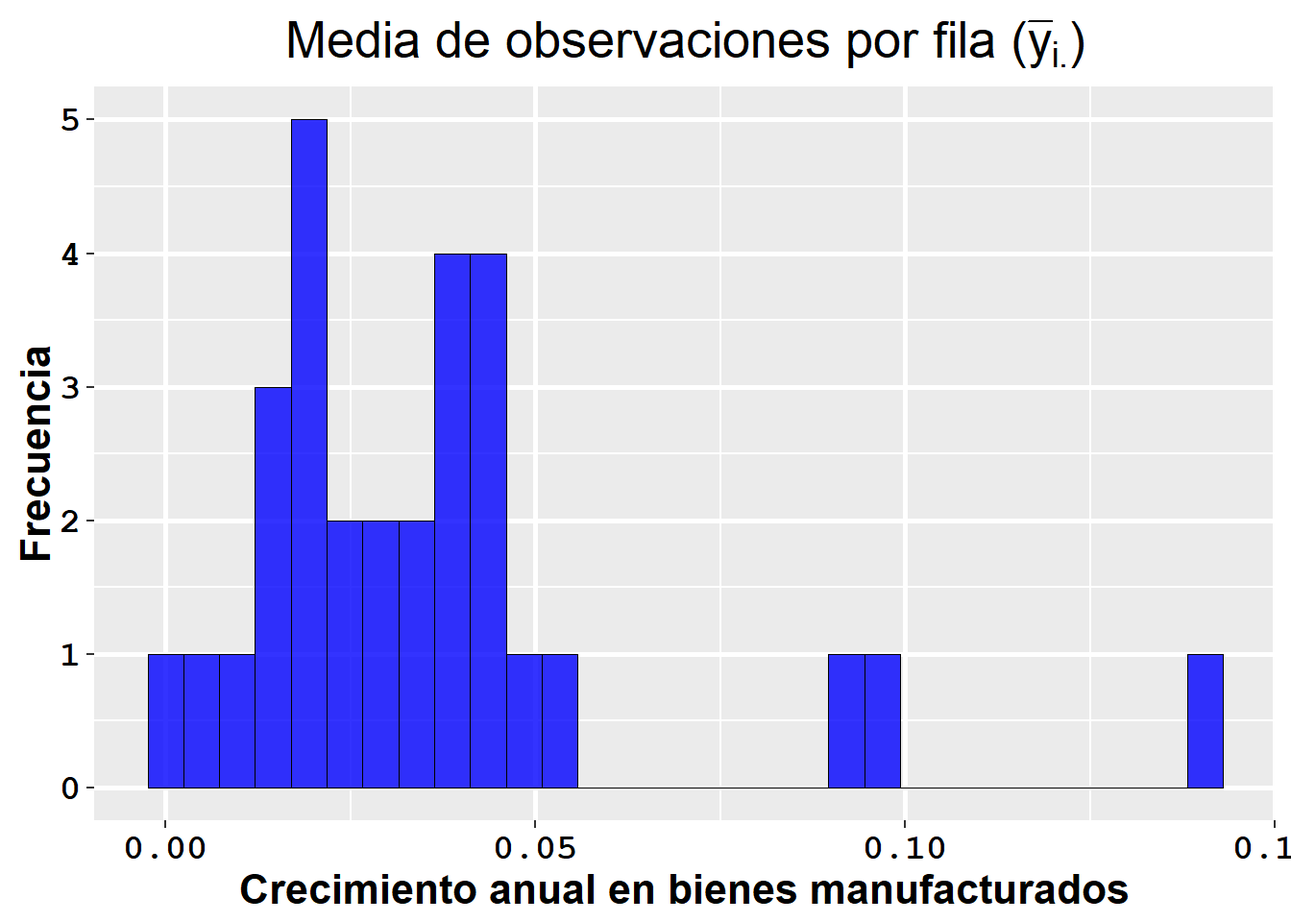
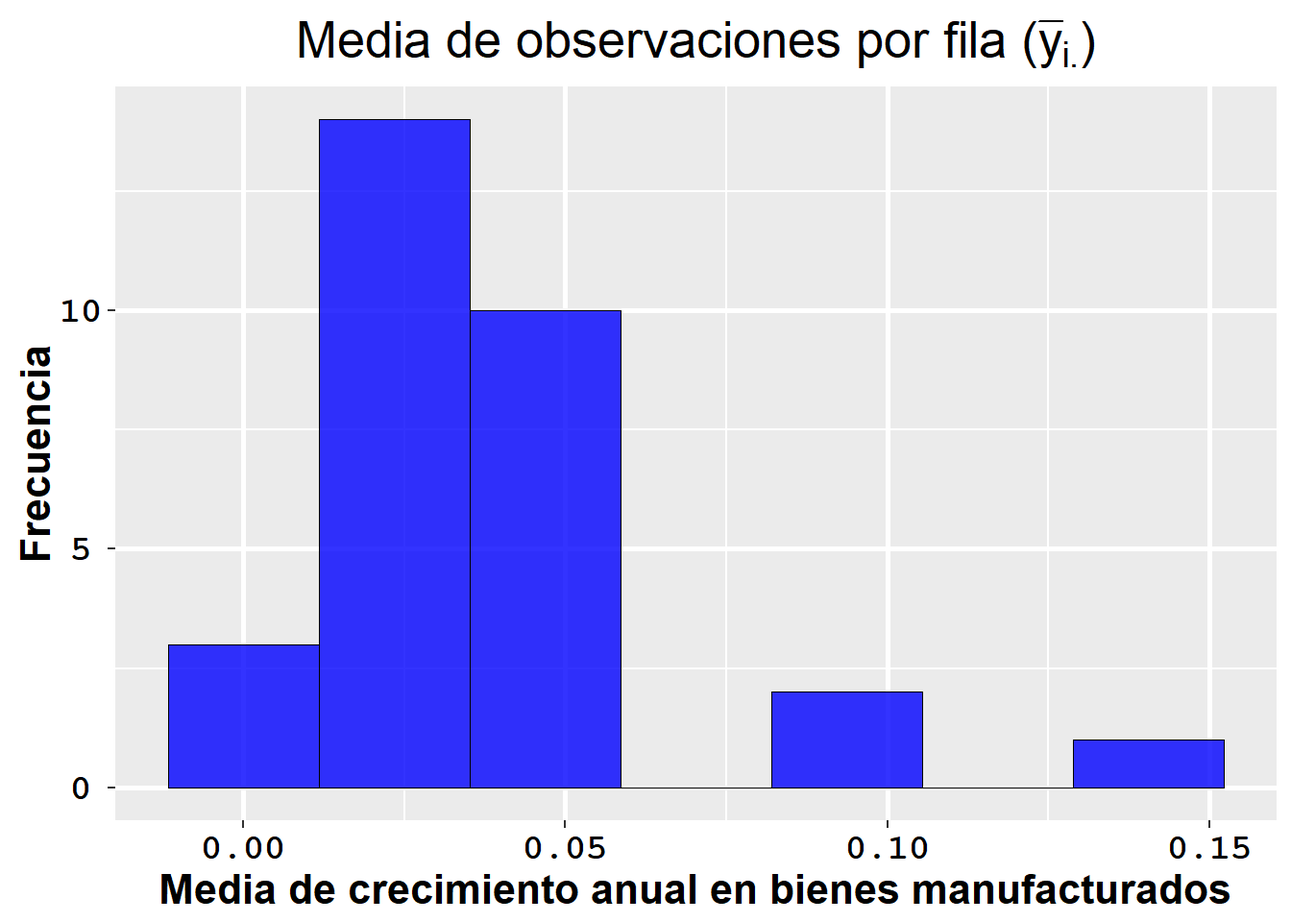
Punto 2

diff --git a/docs/Taller2.html b/docs/Taller2.html
@@ -249,29 +249,6 @@ window.Quarto = {
 </header>
 
 
-<div class="cell">
-<div class="cell-output cell-output-stderr">
-<pre><code>
-Adjuntando el paquete: 'igraph'</code></pre>
-</div>
-<div class="cell-output cell-output-stderr">
-<pre><code>The following objects are masked from 'package:stats':
-
-    decompose, spectrum</code></pre>
-</div>
-<div class="cell-output cell-output-stderr">
-<pre><code>The following object is masked from 'package:base':
-
-    union</code></pre>
-</div>
-<div class="cell-output cell-output-stderr">
-<pre><code>here() starts at C:/Users/Lenovo/Documents/UNAL/Materias/RedesSociales/Redes Sociales 2024-2</code></pre>
-</div>
-<div class="cell-output cell-output-stderr">
-<pre><code>Warning: The `size` argument of `element_line()` is deprecated as of ggplot2 3.4.0.
-ℹ Please use the `linewidth` argument instead.</code></pre>
-</div>
-</div>
 <section id="punto-1" class="level2">
 <h2 class="anchored" data-anchor-id="punto-1">Punto 1</h2>
 <p>El grado de un nodo en una red tanto dirigida como no dirigida se puede calcular fácilmente a partir de la matriz de adyacencia <span class="math inline">\(\mathbf{Y}=[y_{i,j}]\)</span>. El <em>out-degree</em> <span class="math inline">\(d_i^{\text{out}}\)</span> y el <em>in-degree</em> <span class="math inline">\(d_i^{\text{in}}\)</span> del nodo <span class="math inline">\(i\)</span> se pueden calcular respectivamente como: <span class="math display">\[
@@ -306,8 +283,8 @@ d_i^{\text{in}} = \sum_{j:j\neq i} y_{j,i}
 <h2 class="anchored" data-anchor-id="punto-5">Punto 5</h2>
 <p>Considere el conjunto de datos dado en <code>comtrade.RData</code> (este archivo contiene una arreglo de cuatro dimensiones denominado <code>comtrade</code>), asociado con el crecimiento anual del comercio (diferencia en dólares en escala logarítmica respecto al año 2000). Este conjunto de datos involucra 30 países, 10 años desde 1996 hasta 2005, y 6 clases de productos diferentes, como se muestra a continuación:</p>
 <div class="cell">
-<div class="sourceCode cell-code" id="cb6"><pre class="sourceCode r code-with-copy"><code class="sourceCode r"><span id="cb6-1"><a href="#cb6-1" aria-hidden="true" tabindex="-1"></a><span class="fu">load</span>(<span class="st">"comtrade.RData"</span>)</span>
-<span id="cb6-2"><a href="#cb6-2" aria-hidden="true" tabindex="-1"></a><span class="fu">dimnames</span>(comtrade)[<span class="fu">c</span>(<span class="dv">1</span>,<span class="dv">3</span>,<span class="dv">4</span>)]</span></code><button title="Copy to Clipboard" class="code-copy-button"><i class="bi"></i></button></pre></div>
+<div class="sourceCode cell-code" id="cb1"><pre class="sourceCode r code-with-copy"><code class="sourceCode r"><span id="cb1-1"><a href="#cb1-1" aria-hidden="true" tabindex="-1"></a><span class="fu">load</span>(<span class="st">"comtrade.RData"</span>)</span>
+<span id="cb1-2"><a href="#cb1-2" aria-hidden="true" tabindex="-1"></a><span class="fu">dimnames</span>(comtrade)[<span class="fu">c</span>(<span class="dv">1</span>,<span class="dv">3</span>,<span class="dv">4</span>)]</span></code><button title="Copy to Clipboard" class="code-copy-button"><i class="bi"></i></button></pre></div>
 <div class="cell-output cell-output-stdout">
 <pre><code>[[1]]
  [1] "Australia"            "Austria"              "Brazil"              
@@ -332,39 +309,39 @@ d_i^{\text{in}} = \sum_{j:j\neq i} y_{j,i}
 [[3]]
  [1] "1996" "1997" "1998" "1999" "2000" "2001" "2002" "2003" "2004" "2005"</code></pre>
 </div>
-<div class="sourceCode cell-code" id="cb8"><pre class="sourceCode r code-with-copy"><code class="sourceCode r"><span id="cb8-1"><a href="#cb8-1" aria-hidden="true" tabindex="-1"></a><span class="fu">View</span>(comtrade[<span class="dv">1</span>,<span class="dv">2</span>,,]) <span class="co"># Paises, paises, productos y año</span></span></code><button title="Copy to Clipboard" class="code-copy-button"><i class="bi"></i></button></pre></div>
+<div class="sourceCode cell-code" id="cb3"><pre class="sourceCode r code-with-copy"><code class="sourceCode r"><span id="cb3-1"><a href="#cb3-1" aria-hidden="true" tabindex="-1"></a><span class="fu">View</span>(comtrade[<span class="dv">1</span>,<span class="dv">2</span>,,]) <span class="co"># Paises, paises, productos y año</span></span></code><button title="Copy to Clipboard" class="code-copy-button"><i class="bi"></i></button></pre></div>
 </div>
 <p><strong>a. Calcule el aumento medio global</strong> <span class="math inline">\(\bar{y}\)</span> a lo largo de los 10 años en bienes manufacturados. Para ello considere la matriz de adyacencia <code>Y</code> dada por:</p>
 <div class="cell">
-<div class="sourceCode cell-code" id="cb9"><pre class="sourceCode r code-with-copy"><code class="sourceCode r"><span id="cb9-1"><a href="#cb9-1" aria-hidden="true" tabindex="-1"></a>Y <span class="ot">&lt;-</span> <span class="fu">apply</span>(<span class="at">X =</span> comtrade[,,<span class="fu">c</span>(<span class="dv">5</span>,<span class="dv">6</span>),], <span class="at">MARGIN =</span> <span class="fu">c</span>(<span class="dv">1</span>,<span class="dv">2</span>), <span class="at">FUN =</span> mean) <span class="co">#Media de años y bienes manufacturados</span></span>
-<span id="cb9-2"><a href="#cb9-2" aria-hidden="true" tabindex="-1"></a>n <span class="ot">&lt;-</span> <span class="fu">dim</span>(Y)[<span class="dv">1</span>]</span>
-<span id="cb9-3"><a href="#cb9-3" aria-hidden="true" tabindex="-1"></a>Y[<span class="fu">which</span>(<span class="fu">is.na</span>(Y))] <span class="ot">&lt;-</span> <span class="dv">0</span> </span>
-<span id="cb9-4"><a href="#cb9-4" aria-hidden="true" tabindex="-1"></a></span>
-<span id="cb9-5"><a href="#cb9-5" aria-hidden="true" tabindex="-1"></a><span class="co">#** mean(y) **#</span></span>
-<span id="cb9-6"><a href="#cb9-6" aria-hidden="true" tabindex="-1"></a><span class="fu">sum</span>(Y)<span class="sc">/</span>(n<span class="sc">*</span>(n<span class="dv">-1</span>))</span></code><button title="Copy to Clipboard" class="code-copy-button"><i class="bi"></i></button></pre></div>
+<div class="sourceCode cell-code" id="cb4"><pre class="sourceCode r code-with-copy"><code class="sourceCode r"><span id="cb4-1"><a href="#cb4-1" aria-hidden="true" tabindex="-1"></a>Y <span class="ot">&lt;-</span> <span class="fu">apply</span>(<span class="at">X =</span> comtrade[,,<span class="fu">c</span>(<span class="dv">5</span>,<span class="dv">6</span>),], <span class="at">MARGIN =</span> <span class="fu">c</span>(<span class="dv">1</span>,<span class="dv">2</span>), <span class="at">FUN =</span> mean) <span class="co">#Media de años y bienes manufacturados</span></span>
+<span id="cb4-2"><a href="#cb4-2" aria-hidden="true" tabindex="-1"></a>n <span class="ot">&lt;-</span> <span class="fu">dim</span>(Y)[<span class="dv">1</span>]</span>
+<span id="cb4-3"><a href="#cb4-3" aria-hidden="true" tabindex="-1"></a>Y[<span class="fu">which</span>(<span class="fu">is.na</span>(Y))] <span class="ot">&lt;-</span> <span class="dv">0</span> </span>
+<span id="cb4-4"><a href="#cb4-4" aria-hidden="true" tabindex="-1"></a></span>
+<span id="cb4-5"><a href="#cb4-5" aria-hidden="true" tabindex="-1"></a><span class="co">#** mean(y) **#</span></span>
+<span id="cb4-6"><a href="#cb4-6" aria-hidden="true" tabindex="-1"></a><span class="fu">sum</span>(Y)<span class="sc">/</span>(n<span class="sc">*</span>(n<span class="dv">-1</span>))</span></code><button title="Copy to Clipboard" class="code-copy-button"><i class="bi"></i></button></pre></div>
 <div class="cell-output cell-output-stdout">
 <pre><code>[1] 0.03778362</code></pre>
 </div>
-<div class="sourceCode cell-code" id="cb11"><pre class="sourceCode r code-with-copy"><code class="sourceCode r"><span id="cb11-1"><a href="#cb11-1" aria-hidden="true" tabindex="-1"></a><span class="co"># No es quivalente a densidad porque es ponderada (?)</span></span>
-<span id="cb11-2"><a href="#cb11-2" aria-hidden="true" tabindex="-1"></a>g5a <span class="ot">&lt;-</span> <span class="fu">graph_from_adjacency_matrix</span>(Y, <span class="at">weighted =</span> T)</span>
-<span id="cb11-3"><a href="#cb11-3" aria-hidden="true" tabindex="-1"></a><span class="fu">ecount</span>(g5a)<span class="sc">/</span>(<span class="fu">vcount</span>(g5a)<span class="sc">*</span>(<span class="fu">vcount</span>(g5a)<span class="sc">-</span><span class="dv">1</span>))</span></code><button title="Copy to Clipboard" class="code-copy-button"><i class="bi"></i></button></pre></div>
+<div class="sourceCode cell-code" id="cb6"><pre class="sourceCode r code-with-copy"><code class="sourceCode r"><span id="cb6-1"><a href="#cb6-1" aria-hidden="true" tabindex="-1"></a><span class="co"># No es quivalente a densidad porque es ponderada (?)</span></span>
+<span id="cb6-2"><a href="#cb6-2" aria-hidden="true" tabindex="-1"></a>g5a <span class="ot">&lt;-</span> <span class="fu">graph_from_adjacency_matrix</span>(Y, <span class="at">weighted =</span> T)</span>
+<span id="cb6-3"><a href="#cb6-3" aria-hidden="true" tabindex="-1"></a><span class="fu">ecount</span>(g5a)<span class="sc">/</span>(<span class="fu">vcount</span>(g5a)<span class="sc">*</span>(<span class="fu">vcount</span>(g5a)<span class="sc">-</span><span class="dv">1</span>))</span></code><button title="Copy to Clipboard" class="code-copy-button"><i class="bi"></i></button></pre></div>
 <div class="cell-output cell-output-stdout">
 <pre><code>[1] 1</code></pre>
 </div>
-<div class="sourceCode cell-code" id="cb13"><pre class="sourceCode r code-with-copy"><code class="sourceCode r"><span id="cb13-1"><a href="#cb13-1" aria-hidden="true" tabindex="-1"></a><span class="fu">edge_density</span>(<span class="at">graph =</span> g5a)</span></code><button title="Copy to Clipboard" class="code-copy-button"><i class="bi"></i></button></pre></div>
+<div class="sourceCode cell-code" id="cb8"><pre class="sourceCode r code-with-copy"><code class="sourceCode r"><span id="cb8-1"><a href="#cb8-1" aria-hidden="true" tabindex="-1"></a><span class="fu">edge_density</span>(<span class="at">graph =</span> g5a)</span></code><button title="Copy to Clipboard" class="code-copy-button"><i class="bi"></i></button></pre></div>
 <div class="cell-output cell-output-stdout">
 <pre><code>[1] 1</code></pre>
 </div>
 </div>
 <p><strong>b. Calcule la media de todas las observaciones de cada fila de <code>Y</code>, es decir, calcule la media fila</strong> <span class="math inline">\(\bar{y}_{i\bullet}=\frac{1}{n-1}\sum_{j:j\neq i} y_{i,j}\)</span> para cada país. Realice una histograma de los promedios fila <span class="math inline">\(\bar{y}_{i\bullet}\)</span>. Los promedios fila caracterizan diferentes niveles de actividad de los nodos en términos de la sociabilidad. ¿Cómo se pueden interpretar los promedios fila <span class="math inline">\(\bar{y}_{i\bullet}\)</span>?</p>
 <div class="cell">
-<div class="sourceCode cell-code" id="cb15"><pre class="sourceCode r code-with-copy"><code class="sourceCode r"><span id="cb15-1"><a href="#cb15-1" aria-hidden="true" tabindex="-1"></a>mfila <span class="ot">&lt;-</span> <span class="fu">apply</span>(Y, <span class="at">MARGIN =</span> <span class="dv">1</span>, <span class="at">FUN =</span> mean)</span>
-<span id="cb15-2"><a href="#cb15-2" aria-hidden="true" tabindex="-1"></a>mfila <span class="ot">&lt;-</span> <span class="fu">data.frame</span>(<span class="at">Pais =</span> mfila)</span>
-<span id="cb15-3"><a href="#cb15-3" aria-hidden="true" tabindex="-1"></a></span>
-<span id="cb15-4"><a href="#cb15-4" aria-hidden="true" tabindex="-1"></a><span class="fu">ggplot</span>(mfila, <span class="fu">aes</span>(<span class="at">x =</span> Pais)) <span class="sc">+</span> </span>
-<span id="cb15-5"><a href="#cb15-5" aria-hidden="true" tabindex="-1"></a>  <span class="fu">geom_histogram</span>(<span class="at">alpha =</span> <span class="fl">0.8</span>, <span class="at">position =</span> <span class="st">"identity"</span>, <span class="at">fill=</span><span class="st">"blue"</span>, <span class="at">colour =</span> <span class="st">"black"</span>,<span class="at">lwd =</span> <span class="fl">0.1</span>,<span class="at">linetype =</span> <span class="dv">1</span>) <span class="sc">+</span></span>
-<span id="cb15-6"><a href="#cb15-6" aria-hidden="true" tabindex="-1"></a><span class="fu">labs</span>(<span class="at">title=</span><span class="fu">expression</span>(<span class="fu">paste</span>(<span class="st">"Media de observaciones por fila ("</span>, <span class="fu">bar</span>(y)[i.], <span class="st">")"</span>)), <span class="at">x=</span><span class="st">"Crecimiento anual en bienes manufacturados"</span>, <span class="at">y=</span><span class="st">"Frecuencia"</span>) <span class="sc">+</span> mitema <span class="sc">+</span> </span>
-<span id="cb15-7"><a href="#cb15-7" aria-hidden="true" tabindex="-1"></a>  <span class="fu">theme</span>(<span class="at">strip.background=</span><span class="fu">element_rect</span>(<span class="at">color=</span><span class="st">"black"</span>,<span class="at">fill=</span><span class="st">"gray80"</span>,<span class="at">size=</span><span class="dv">1</span>), <span class="at">strip.text=</span><span class="fu">element_text</span>(<span class="at">face=</span><span class="st">"bold"</span>,<span class="at">size=</span><span class="dv">15</span>,<span class="at">vjust=</span><span class="fl">0.5</span>,<span class="at">hjust=</span><span class="fl">0.5</span>,<span class="at">color=</span><span class="st">"black"</span>,<span class="at">angle=</span><span class="dv">0</span>))</span></code><button title="Copy to Clipboard" class="code-copy-button"><i class="bi"></i></button></pre></div>
+<div class="sourceCode cell-code" id="cb10"><pre class="sourceCode r code-with-copy"><code class="sourceCode r"><span id="cb10-1"><a href="#cb10-1" aria-hidden="true" tabindex="-1"></a>mfila <span class="ot">&lt;-</span> <span class="fu">apply</span>(Y, <span class="at">MARGIN =</span> <span class="dv">1</span>, <span class="at">FUN =</span> mean)</span>
+<span id="cb10-2"><a href="#cb10-2" aria-hidden="true" tabindex="-1"></a>mfila <span class="ot">&lt;-</span> <span class="fu">data.frame</span>(<span class="at">Pais =</span> mfila, <span class="at">row.names =</span> <span class="cn">NULL</span>)</span>
+<span id="cb10-3"><a href="#cb10-3" aria-hidden="true" tabindex="-1"></a><span class="co">#hist(apply(Y, MARGIN = 1, FUN = mean))</span></span>
+<span id="cb10-4"><a href="#cb10-4" aria-hidden="true" tabindex="-1"></a><span class="fu">ggplot</span>(mfila, <span class="fu">aes</span>(<span class="at">x =</span> Pais)) <span class="sc">+</span> </span>
+<span id="cb10-5"><a href="#cb10-5" aria-hidden="true" tabindex="-1"></a>  <span class="fu">geom_histogram</span>(<span class="at">alpha =</span> <span class="fl">0.8</span>, <span class="at">bins =</span> <span class="dv">7</span>, <span class="at">position =</span> <span class="st">"identity"</span>, <span class="at">fill=</span><span class="st">"blue"</span>, <span class="at">colour =</span> <span class="st">"black"</span>,<span class="at">lwd =</span> <span class="fl">0.1</span>,<span class="at">linetype =</span> <span class="dv">1</span>) <span class="sc">+</span></span>
+<span id="cb10-6"><a href="#cb10-6" aria-hidden="true" tabindex="-1"></a><span class="fu">labs</span>(<span class="at">title=</span><span class="fu">expression</span>(<span class="fu">paste</span>(<span class="st">"Media de observaciones por fila ("</span>, <span class="fu">bar</span>(y)[i.], <span class="st">")"</span>)), <span class="at">x=</span><span class="st">"Media de crecimiento anual en bienes manufacturados"</span>, <span class="at">y=</span><span class="st">"Frecuencia"</span>) <span class="sc">+</span> mitema <span class="sc">+</span> </span>
+<span id="cb10-7"><a href="#cb10-7" aria-hidden="true" tabindex="-1"></a>  <span class="fu">theme</span>(<span class="at">strip.background=</span><span class="fu">element_rect</span>(<span class="at">color=</span><span class="st">"black"</span>,<span class="at">fill=</span><span class="st">"gray80"</span>,<span class="at">size=</span><span class="dv">1</span>), <span class="at">strip.text=</span><span class="fu">element_text</span>(<span class="at">face=</span><span class="st">"bold"</span>,<span class="at">size=</span><span class="dv">15</span>,<span class="at">vjust=</span><span class="fl">0.5</span>,<span class="at">hjust=</span><span class="fl">0.5</span>,<span class="at">color=</span><span class="st">"black"</span>,<span class="at">angle=</span><span class="dv">0</span>))</span></code><button title="Copy to Clipboard" class="code-copy-button"><i class="bi"></i></button></pre></div>
 <div class="cell-output-display">
 <div>
 <figure class="figure">
@@ -373,8 +350,46 @@ d_i^{\text{in}} = \sum_{j:j\neq i} y_{j,i}
 </div>
 </div>
 </div>
+<p>Interpretar:</p>
 <p><strong>c.&nbsp;Calcule la media de todas las observaciones de cada columna de <code>Y</code>, es decir, calcule la media columna</strong> <span class="math inline">\(\bar{y}_{\bullet j}=\frac{1}{n-1}\sum_{i:i\neq j} y_{i,j}\)</span> para cada país. Realice una histograma de los promedios columna <span class="math inline">\(\bar{y}_{\bullet j}\)</span>. Los promedios columna caracterizan diferentes niveles de actividad de los nodos en términos de la popularidad. ¿Cómo se pueden interpretar los promedio columna <span class="math inline">\(\bar{y}_{\bullet j}\)</span>?</p>
+<div class="cell">
+<div class="sourceCode cell-code" id="cb11"><pre class="sourceCode r code-with-copy"><code class="sourceCode r"><span id="cb11-1"><a href="#cb11-1" aria-hidden="true" tabindex="-1"></a>mcol <span class="ot">&lt;-</span> <span class="fu">apply</span>(Y, <span class="at">MARGIN =</span> <span class="dv">2</span>, <span class="at">FUN =</span> mean)</span>
+<span id="cb11-2"><a href="#cb11-2" aria-hidden="true" tabindex="-1"></a>mcol <span class="ot">&lt;-</span> <span class="fu">data.frame</span>(<span class="at">Pais =</span> mcol, <span class="at">row.names =</span> <span class="cn">NULL</span>)</span>
+<span id="cb11-3"><a href="#cb11-3" aria-hidden="true" tabindex="-1"></a><span class="co">#hist(apply(Y, MARGIN = 2, FUN = mean))</span></span>
+<span id="cb11-4"><a href="#cb11-4" aria-hidden="true" tabindex="-1"></a><span class="fu">ggplot</span>(mcol, <span class="fu">aes</span>(<span class="at">x =</span> Pais)) <span class="sc">+</span> </span>
+<span id="cb11-5"><a href="#cb11-5" aria-hidden="true" tabindex="-1"></a>  <span class="fu">geom_histogram</span>(<span class="at">alpha =</span> <span class="fl">0.8</span>, <span class="at">position =</span> <span class="st">"identity"</span>, <span class="at">bins =</span> <span class="dv">7</span>, <span class="at">fill=</span><span class="st">"blue"</span>, <span class="at">colour =</span> <span class="st">"black"</span>,<span class="at">lwd =</span> <span class="fl">0.1</span>,<span class="at">linetype =</span> <span class="dv">1</span>) <span class="sc">+</span></span>
+<span id="cb11-6"><a href="#cb11-6" aria-hidden="true" tabindex="-1"></a><span class="fu">labs</span>(<span class="at">title=</span><span class="fu">expression</span>(<span class="fu">paste</span>(<span class="st">"Media de observaciones por columna ("</span>, <span class="fu">bar</span>(y)[.j], <span class="st">")"</span>)), <span class="at">x=</span><span class="st">"Media de crecimiento anual en bienes manufacturados"</span>, <span class="at">y=</span><span class="st">"Frecuencia"</span>) <span class="sc">+</span> mitema <span class="sc">+</span> </span>
+<span id="cb11-7"><a href="#cb11-7" aria-hidden="true" tabindex="-1"></a>  <span class="fu">theme</span>(<span class="at">strip.background=</span><span class="fu">element_rect</span>(<span class="at">color=</span><span class="st">"black"</span>,<span class="at">fill=</span><span class="st">"gray80"</span>,<span class="at">size=</span><span class="dv">1</span>), <span class="at">strip.text=</span><span class="fu">element_text</span>(<span class="at">face=</span><span class="st">"bold"</span>,<span class="at">size=</span><span class="dv">15</span>,<span class="at">vjust=</span><span class="fl">0.5</span>,<span class="at">hjust=</span><span class="fl">0.5</span>,<span class="at">color=</span><span class="st">"black"</span>,<span class="at">angle=</span><span class="dv">0</span>))</span></code><button title="Copy to Clipboard" class="code-copy-button"><i class="bi"></i></button></pre></div>
+<div class="cell-output-display">
+<div>
+<figure class="figure">
+<p><img src="Taller2_files/figure-html/unnamed-chunk-7-1.png" class="img-fluid figure-img" width="672"></p>
+</figure>
+</div>
+</div>
+</div>
 <p><strong>d.&nbsp;Calcule tanto la media de los promedios fila</strong> <span class="math inline">\(\bar{y}_{i\bullet}\)</span> como la media de los promedios columna <span class="math inline">\(\bar{y}_{\bullet j}\)</span>.</p>
+<div class="cell">
+<div class="sourceCode cell-code" id="cb12"><pre class="sourceCode r code-with-copy"><code class="sourceCode r"><span id="cb12-1"><a href="#cb12-1" aria-hidden="true" tabindex="-1"></a><span class="fu">kable</span>(<span class="fu">mean</span>(mfila[,<span class="dv">1</span>]))</span></code><button title="Copy to Clipboard" class="code-copy-button"><i class="bi"></i></button></pre></div>
+<div class="cell-output-display">
+<table class="caption-top table table-sm table-striped small">
+<thead>
+<tr class="header">
+<th style="text-align: right;">x</th>
+</tr>
+</thead>
+<tbody>
+<tr class="odd">
+<td style="text-align: right;">0.0365242</td>
+</tr>
+</tbody>
+</table>
+</div>
+<div class="sourceCode cell-code" id="cb13"><pre class="sourceCode r code-with-copy"><code class="sourceCode r"><span id="cb13-1"><a href="#cb13-1" aria-hidden="true" tabindex="-1"></a><span class="fu">mean</span>(mcol[,<span class="dv">1</span>])</span></code><button title="Copy to Clipboard" class="code-copy-button"><i class="bi"></i></button></pre></div>
+<div class="cell-output cell-output-stdout">
+<pre><code>[1] 0.03652417</code></pre>
+</div>
+</div>
 <p><strong>e. Calcule tanto la DE de los promedios fila</strong> <span class="math inline">\(\bar{y}_{i\bullet}\)</span> como la DE de los promedios columna <span class="math inline">\(\bar{y}_{\bullet j}\)</span>. ¿Qué se puede concluir acerca de la heterogeneidad local en este caso?</p>
 <p><strong>f.&nbsp;Calcule el coeficiente de correlación entre los promedios fila</strong> <span class="math inline">\(\bar{y}_{i\bullet}\)</span> y los promedios columna <span class="math inline">\(\bar{y}_{\bullet j}\)</span>. Realice un dispersograma de los promedios columna <span class="math inline">\(\bar{y}_{\bullet j}\)</span> (eje <span class="math inline">\(y\)</span>) frente a los promedios fila <span class="math inline">\(\bar{y}_{i\bullet}\)</span> (eje <span class="math inline">\(x\)</span>), junto con la recta <span class="math inline">\(y=x\)</span> como punto de referencia. ¿Qué se puede concluir?</p>
 </section>
@@ -395,13 +410,13 @@ d_i^{\text{in}} = \sum_{j:j\neq i} y_{j,i}
 <h2 class="anchored" data-anchor-id="punto-8">Punto 8</h2>
 <p>Considere los datos relacionales acerca de los conflictos internacionales del archivo <code>conflict.RData</code> despúes de simetrizarla débilmente y remover los nodos aislados:</p>
 <div class="cell">
-<div class="sourceCode cell-code" id="cb16"><pre class="sourceCode r code-with-copy"><code class="sourceCode r"><span id="cb16-1"><a href="#cb16-1" aria-hidden="true" tabindex="-1"></a><span class="co"># datos</span></span>
-<span id="cb16-2"><a href="#cb16-2" aria-hidden="true" tabindex="-1"></a><span class="co"># load("conflict.RData")</span></span>
-<span id="cb16-3"><a href="#cb16-3" aria-hidden="true" tabindex="-1"></a><span class="co"># Y &lt;- dat$Y</span></span>
-<span id="cb16-4"><a href="#cb16-4" aria-hidden="true" tabindex="-1"></a><span class="co"># # remover nodos aislados</span></span>
-<span id="cb16-5"><a href="#cb16-5" aria-hidden="true" tabindex="-1"></a><span class="co"># Y &lt;- 1*( Y*t(Y) &gt; 0 )</span></span>
-<span id="cb16-6"><a href="#cb16-6" aria-hidden="true" tabindex="-1"></a><span class="co"># deg &lt;- apply(X = Y, MARGIN = 1, FUN = sum, na.rm = TRUE)</span></span>
-<span id="cb16-7"><a href="#cb16-7" aria-hidden="true" tabindex="-1"></a><span class="co"># Y &lt;- Y[deg &gt; 0, deg &gt; 0]</span></span></code><button title="Copy to Clipboard" class="code-copy-button"><i class="bi"></i></button></pre></div>
+<div class="sourceCode cell-code" id="cb15"><pre class="sourceCode r code-with-copy"><code class="sourceCode r"><span id="cb15-1"><a href="#cb15-1" aria-hidden="true" tabindex="-1"></a><span class="co"># datos</span></span>
+<span id="cb15-2"><a href="#cb15-2" aria-hidden="true" tabindex="-1"></a><span class="co"># load("conflict.RData")</span></span>
+<span id="cb15-3"><a href="#cb15-3" aria-hidden="true" tabindex="-1"></a><span class="co"># Y &lt;- dat$Y</span></span>
+<span id="cb15-4"><a href="#cb15-4" aria-hidden="true" tabindex="-1"></a><span class="co"># # remover nodos aislados</span></span>
+<span id="cb15-5"><a href="#cb15-5" aria-hidden="true" tabindex="-1"></a><span class="co"># Y &lt;- 1*( Y*t(Y) &gt; 0 )</span></span>
+<span id="cb15-6"><a href="#cb15-6" aria-hidden="true" tabindex="-1"></a><span class="co"># deg &lt;- apply(X = Y, MARGIN = 1, FUN = sum, na.rm = TRUE)</span></span>
+<span id="cb15-7"><a href="#cb15-7" aria-hidden="true" tabindex="-1"></a><span class="co"># Y &lt;- Y[deg &gt; 0, deg &gt; 0]</span></span></code><button title="Copy to Clipboard" class="code-copy-button"><i class="bi"></i></button></pre></div>
 </div>
 <p><strong>a. Hacer una visualización de la red.</strong></p>
 <p><strong>b. Caracterizar local y estructuralmente la red, en términos de la distancia, la centralidad, la cohesión, la conectivaidad, y el agrupamento. Utilizar todas las métricas disponbles.</strong></p>

diff --git a/docs/index.html b/docs/index.html
@@ -7,7 +7,7 @@
 <meta name="viewport" content="width=device-width, initial-scale=1.0, user-scalable=yes">
 
 
-<title>Redes Sociales</title>
+<title>index</title>
 <style>
 code{white-space: pre-wrap;}
 span.smallcaps{font-variant: small-caps;}
@@ -19,40 +19,6 @@ ul.task-list li input[type="checkbox"] {
   width: 0.8em;
   margin: 0 0.8em 0.2em -1em; /* quarto-specific, see https://github.com/quarto-dev/quarto-cli/issues/4556 */ 
   vertical-align: middle;
-}
-/* CSS for syntax highlighting */
-pre > code.sourceCode { white-space: pre; position: relative; }
-pre > code.sourceCode > span { line-height: 1.25; }
-pre > code.sourceCode > span:empty { height: 1.2em; }
-.sourceCode { overflow: visible; }
-code.sourceCode > span { color: inherit; text-decoration: inherit; }
-div.sourceCode { margin: 1em 0; }
-pre.sourceCode { margin: 0; }
-@media screen {
-div.sourceCode { overflow: auto; }
-}
-@media print {
-pre > code.sourceCode { white-space: pre-wrap; }
-pre > code.sourceCode > span { display: inline-block; text-indent: -5em; padding-left: 5em; }
-}
-pre.numberSource code
-  { counter-reset: source-line 0; }
-pre.numberSource code > span
-  { position: relative; left: -4em; counter-increment: source-line; }
-pre.numberSource code > span > a:first-child::before
-  { content: counter(source-line);
-    position: relative; left: -1em; text-align: right; vertical-align: baseline;
-    border: none; display: inline-block;
-    -webkit-touch-callout: none; -webkit-user-select: none;
-    -khtml-user-select: none; -moz-user-select: none;
-    -ms-user-select: none; user-select: none;
-    padding: 0 4px; width: 4em;
-  }
-pre.numberSource { margin-left: 3em;  padding-left: 4px; }
-div.sourceCode
-  {   }
-@media screen {
-pre > code.sourceCode > span > a:first-child::before { text-decoration: underline; }
 }
 </style>
 
@@ -126,7 +92,7 @@ pre > code.sourceCode > span > a:first-child::before { text-decoration: underlin
       <button type="button" class="quarto-btn-toggle btn" data-bs-toggle="collapse" role="button" data-bs-target=".quarto-sidebar-collapse-item" aria-controls="quarto-sidebar" aria-expanded="false" aria-label="Toggle sidebar navigation" onclick="if (window.quartoToggleHeadroom) { window.quartoToggleHeadroom(); }">
         <i class="bi bi-layout-text-sidebar-reverse"></i>
       </button>
-        <nav class="quarto-page-breadcrumbs" aria-label="breadcrumb"><ol class="breadcrumb"><li class="breadcrumb-item">Redes Sociales</li></ol></nav>
+        <nav class="quarto-page-breadcrumbs" aria-label="breadcrumb"><ol class="breadcrumb"></ol></nav>
         <a class="flex-grow-1" role="navigation" data-bs-toggle="collapse" data-bs-target=".quarto-sidebar-collapse-item" aria-controls="quarto-sidebar" aria-expanded="false" aria-label="Toggle sidebar navigation" onclick="if (window.quartoToggleHeadroom) { window.quartoToggleHeadroom(); }">      
         </a>
       <button type="button" class="btn quarto-search-button" aria-label="Search" onclick="window.quartoOpenSearch();">
@@ -180,33 +146,10 @@ pre > code.sourceCode > span > a:first-child::before { text-decoration: underlin
 <!-- main -->
 <main class="content" id="quarto-document-content">
 
-<header id="title-block-header" class="quarto-title-block default">
-<div class="quarto-title">
-<h1 class="title">Redes Sociales</h1>
-</div>
 
 
 
-<div class="quarto-title-meta">
-
-    
-  
-    
-  </div>
-  
-
-
-</header>
-
-
-<p>This is a Quarto website.</p>
-<p>To learn more about Quarto websites visit <a href="https://quarto.org/docs/websites" class="uri">https://quarto.org/docs/websites</a>.</p>
-<div class="cell">
-<div class="sourceCode cell-code" id="cb1"><pre class="sourceCode r code-with-copy"><code class="sourceCode r"><span id="cb1-1"><a href="#cb1-1" aria-hidden="true" tabindex="-1"></a><span class="dv">1</span> <span class="sc">+</span> <span class="dv">1</span></span></code><button title="Copy to Clipboard" class="code-copy-button"><i class="bi"></i></button></pre></div>
-<div class="cell-output cell-output-stdout">
-<pre><code>[1] 2</code></pre>
-</div>
-</div>
+<p>holaa</p>
 
 
 
